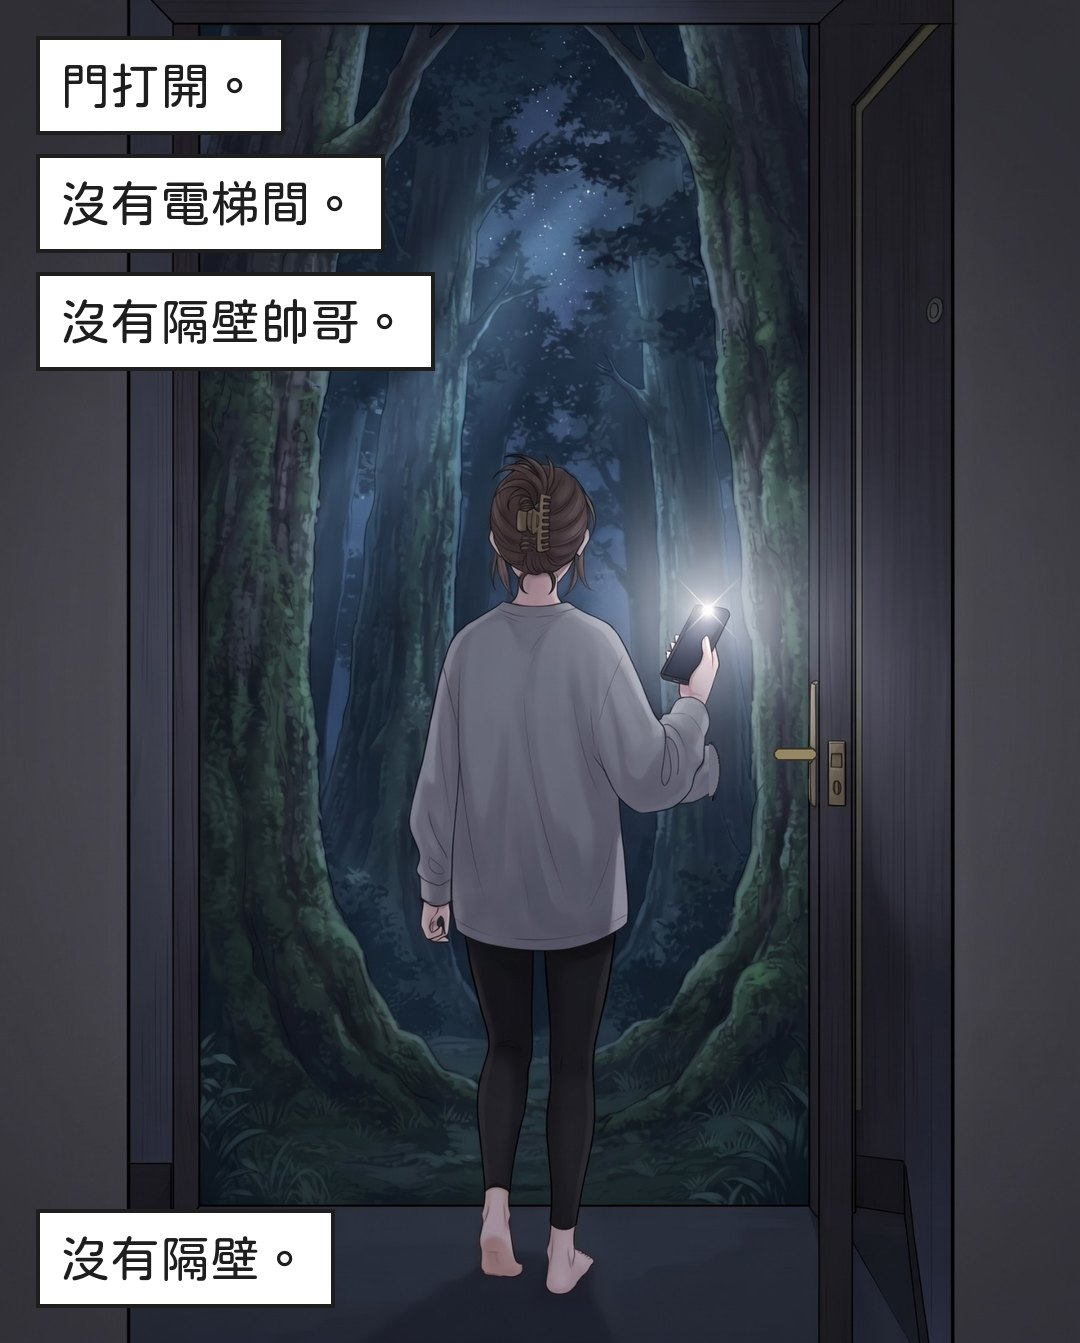
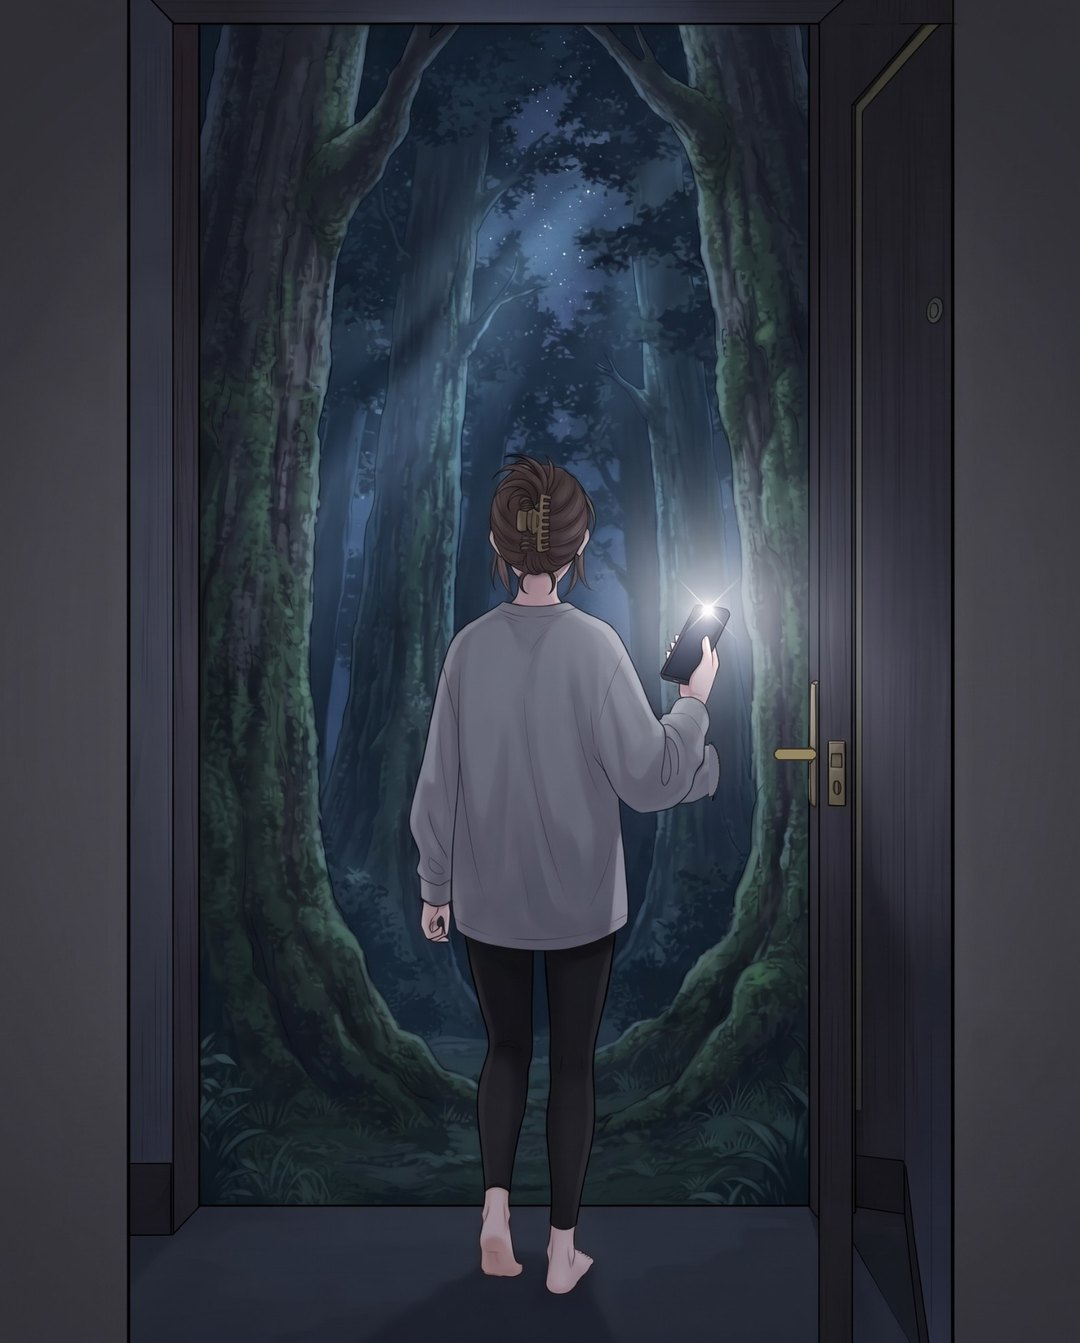
Chapter 1 comic: dark gutters and paced text beats between panels
Claude-Session: https://claude.ai/code/session_015Mqcw1CUwCrp5H32bc8ZgS

Changed region(s): [[0.0306, 0.0305, 0.4278, 0.2748], [0.0306, 0.8853, 0.3361, 0.9769]]

diff --git a/story/01-comic.html b/story/01-comic.html
@@ -19,15 +19,22 @@
   <div class="comic">
     <img src="comic/01-1.jpg" alt="被窩裡滑手機，已經半夜" width="1080" loading="lazy">
     <img src="comic/01-2.jpg" alt="窗外一道巨大的閃電" width="1080" loading="lazy">
+    <div class="gap xl"></div>
     <img src="comic/01-3.jpg" alt="黑暗中睜大眼睛" width="1080" loading="lazy">
     <img src="comic/01-4.jpg" alt="停電的台北和圍著光環的月亮" width="1080" loading="lazy">
     <img src="comic/01-5.jpg" alt="拿著手機走到門口" width="1080" loading="lazy">
+    <div class="gap l"><p>門打開。</p></div>
     <img src="comic/01-6.jpg" alt="門打開，門外是一整片森林" width="1080" loading="lazy">
+    <div class="gap m"><p>沒有電梯間。</p></div>
+    <div class="gap m"><p>沒有隔壁帥哥。</p></div>
+    <div class="gap l"><p>沒有隔壁。</p></div>
     <img src="comic/01-7.jpg" alt="手電筒照著傻眼的臉" width="1080" loading="lazy">
     <img src="comic/01-8.jpg" alt="把門關上" width="1080" loading="lazy">
     <img src="comic/01-9.jpg" alt="一個人站在巨大的森林裡" width="1080" loading="lazy">
     <img src="comic/01-10.jpg" alt="樹葉間圍著兩圈光環的月亮" width="1080" loading="lazy">
+    <div class="gap xl"></div>
     <img src="comic/01-11.jpg" alt="一隻跟她一樣大的橘貓從樹林走出來" width="1080" loading="lazy">
+    <div class="gap s"></div>
     <img src="comic/01-12.jpg" alt="橘貓嘆了一口氣" width="1080" loading="lazy">
   </div>
   <p class="next-note">第二話準備中。</p>

diff --git a/story/story.css b/story/story.css
@@ -58,6 +58,9 @@ h1 { margin: 6px 0 4px; font-size: 26px; text-align: center; letter-spacing: .06
 .toc li.ep { padding: 16px 18px; border-radius: 14px; background: var(--paper); box-shadow: 0 1px 8px rgba(80,80,140,.08); }
 .toc .links { display: flex; gap: 8px; margin-top: 10px; }
 .toc .links a { flex: 1; padding: 8px 0; border-radius: 10px; text-align: center; background: #EEF2FA; box-shadow: none; }
-.comic { margin: 0 -14px; }
+.comic { margin: 0 -22px; padding: 14px 0; background: #121419; }
 .comic img { display: block; width: 100%; height: auto; margin: 0 0 14px; }
 .next-note { margin: 22px 0 0; text-align: center; color: var(--ink-soft); line-height: 1.8; }
+.gap { display: flex; flex-direction: column; align-items: center; justify-content: center; margin: 0 0 14px; }
+.gap.s { height: 18vh; } .gap.m { height: 32vh; } .gap.l { height: 50vh; } .gap.xl { height: 70vh; }
+.gap p { margin: 0; color: #EDEFF5; font-size: 20px; letter-spacing: .12em; }
